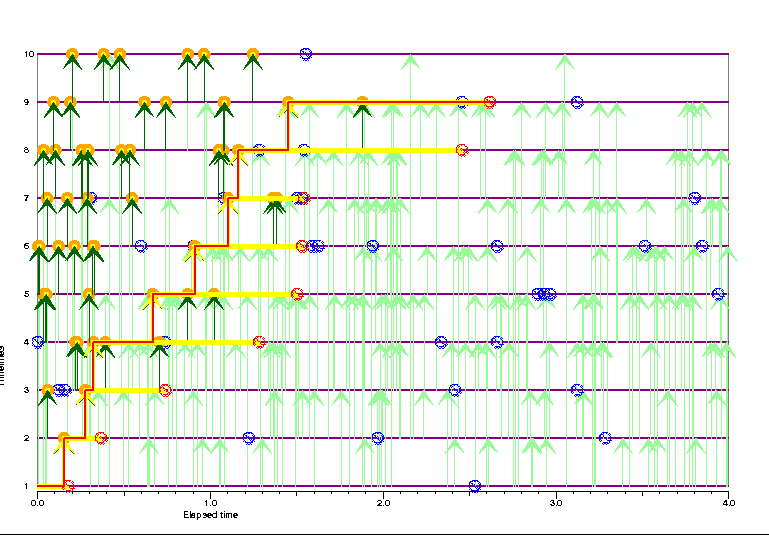
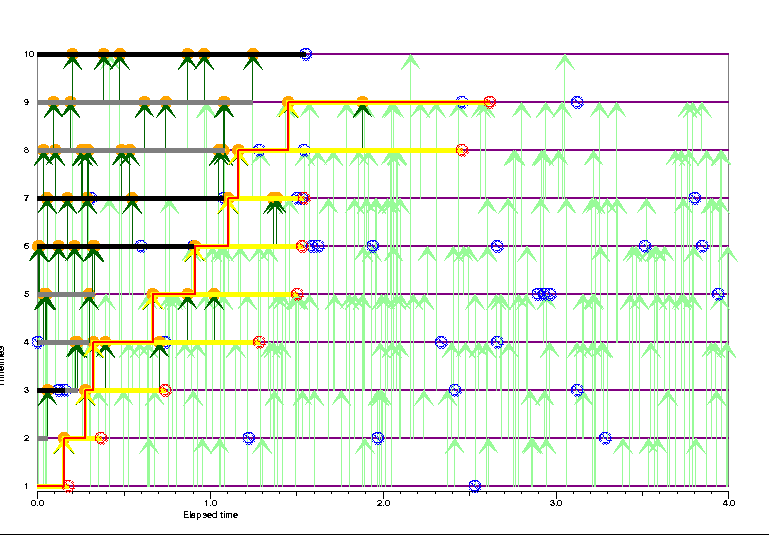
Added nordor and nofly zones.

diff --git a/python/static.py b/python/static.py
@@ -348,19 +348,20 @@ def main(opt, arguments):
         if t0 > 0:
             app.segment(0, i, t0, i, tag='12-Mordor')
 
-    # logging.info('Display no-fly zone')
-    # current = 0
-    # for i, lll in reversed(list(enumerate(innov.infect))[:-1]):
-    #     nofly = max(current, mordor[i + 1])
-    #     current = 0
-    #     for ll in lll:
-    #         try:
-    #             t = max([s for s in ll if s <= nofly])
-    #             current = max(current, t)
-    #         except ValueError:
-    #             pass
-    #     if current > mordor[i]:
-    #         app.segment(mordor[i], i, current, i, tag='12-nofly')
+    logging.info('Display no-fly zone')
+    nofly = mordor[pop - 1]
+    for i, lll in reversed(list(enumerate(innov.infect))):
+        # Need to do better pruning of infections1
+        ill = [t for j, ll in enumerate(lll) for t in ll \
+            if j >= len(removals) or t <= removals[j]]
+        try:
+            nofly = max([t for t in ill if t < nofly])
+        except ValueError:
+            nofly = 0
+        logging.info("%d: %s versus %s", i + 1, nofly, mordor[i])
+        if nofly > mordor[i]:
+            app.segment(mordor[i], i, nofly, i, tag='12-nofly')
+        nofly = max(nofly, mordor[i])
 
     logging.info('Format the graphical elements')
     app.style()

diff --git a/python/epidemic.py b/python/epidemic.py
@@ -158,7 +158,8 @@ class FreeEpidemic(object):
        (1.3, (0, 1, 2)),
        (2, (0, 0, 3))],
       [0, 0.2, 0.4],
-      [0.5, 1.3, 2])
+      [0.5, 1.3, 2],
+      [0, 0, 0])
 
      >>> print(epidemic(pretty=True))
      Time    S, I, R
@@ -198,13 +199,15 @@ class FreeEpidemic(object):
         # List of lists of pairs of row levels, one pair for each infection time.
         ins = [[[(i + 2, j + 1)]*len(y) for j, y in enumerate(x)] for i, x, in infect]
         # List of lists of incoming infections for each row.
-        in1 = chain(*[chain(*x) for x in self.innov.infect])
-        in2 = chain(*[chain(*x) for x in ins])
+        in1 = [x for ll in self.innov.infect for y in ll for x in y]
+        in2 = [x for ll in ins for y in ll for x in y]
+        logging.info(in1)
+        logging.info(in2)
         # List of (infection time, outgoing row, incoming row)
         inf = [(x, y[0], y[1]) for x, y in  zip(in1, in2)]
 
         # Return list of incidents sorted by time.
-        return sorted(list(chain(rem, inf)))
+        return sorted(list(chain(inf, rem)))
 
     def _infectious_periods(self, trajectory):
         """

diff --git a/python/KEY.md b/python/KEY.md
@@ -36,3 +36,7 @@ This sits on the lowest row currently infected, which then suffers a removal;
 it sits below the corresponding potential removal. Note that sometimes potential and
 implemented removals coincide, in which case in the initial configuration of `static.py`
 only the implemented removal is visible.
+
+`12-Mordor`: to avoid premature removal, these black portions of rows should not be infected.
+
+`12-nofly`: to avoid premature removal, these grey portions of rows should not be infected.
